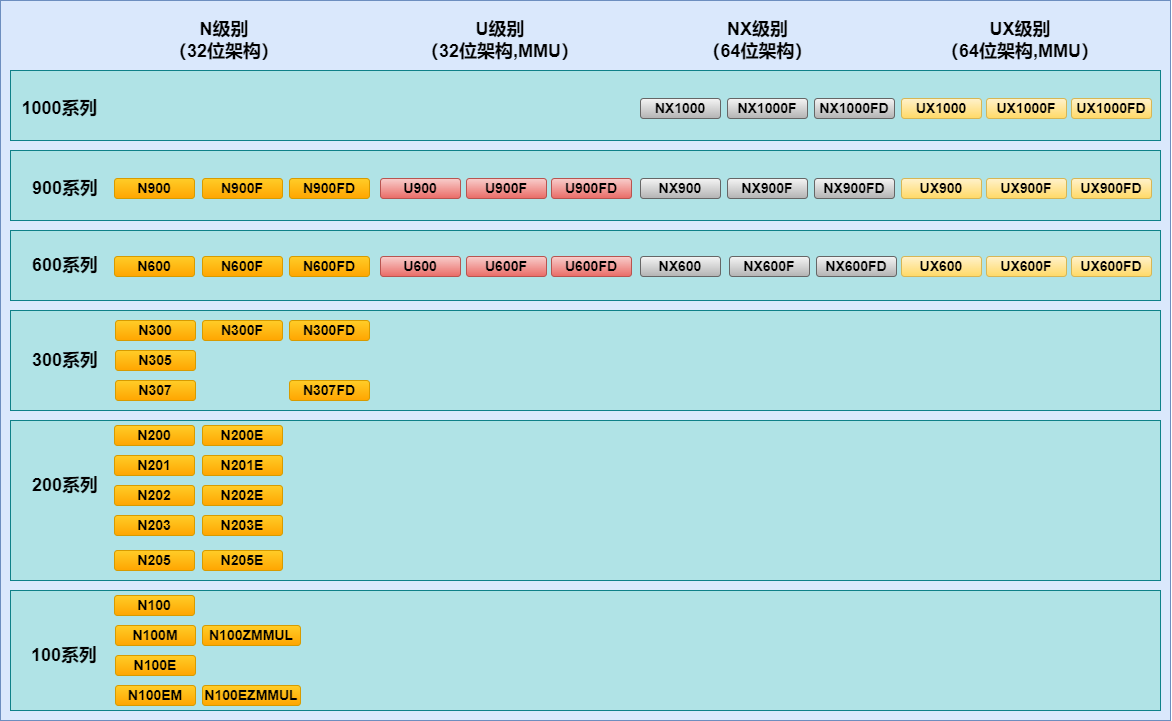
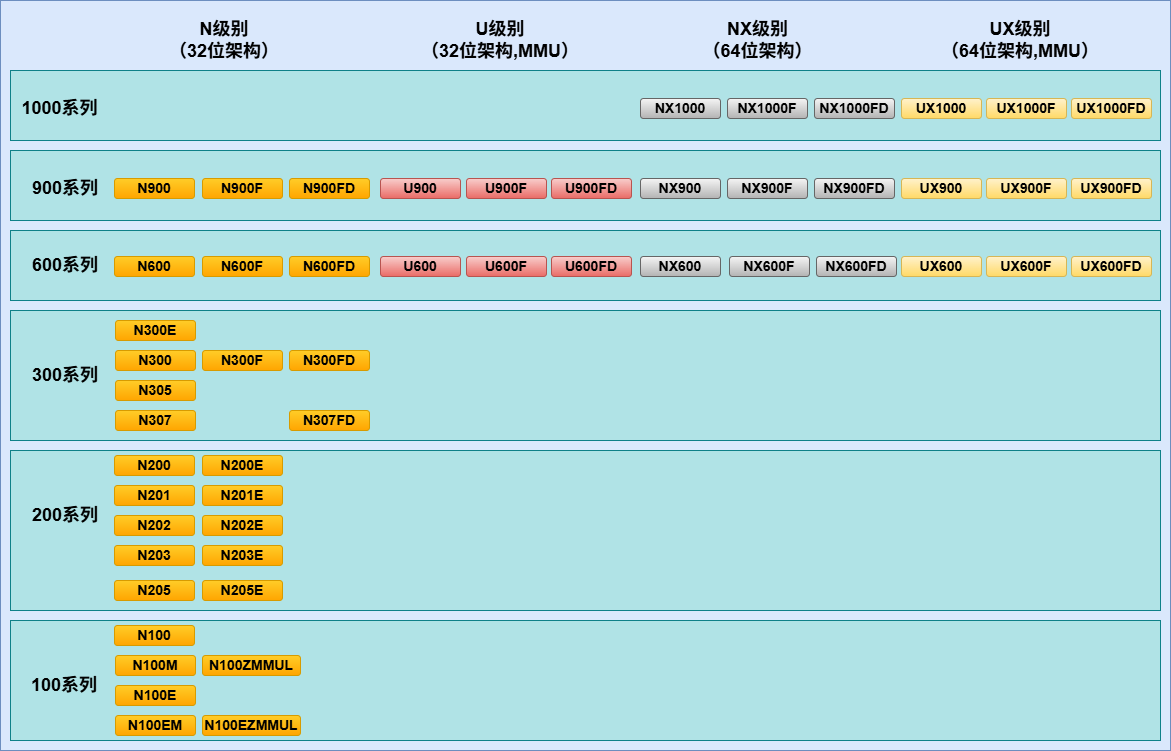
doc: update qemu doc for 2025.10 release

Changed region(s): [[0.0, 0.0, 1.0, 1.0]]

diff --git a/source/qemu/intro.rst b/source/qemu/intro.rst
@@ -15,6 +15,8 @@ Nuclei QEMU is now developed based on QEMU version 9.0, supporting the machine f
 
   - **Zilsd & Zclsd**: riscv-zilsd Release 1.0
 
+  - **Xxlfbf & Xxlvfbf**: Nuclei custom scalar & vector BF16 extensions
+
 If you want to access the code of Nuclei QEMU, you can visit our opensource `Nuclei QEMU Github Repository <https://github.com/riscv-mcu/qemu/tree/nuclei/9.0>`_.
 
 
@@ -210,9 +212,6 @@ TEST Support
 
   This is an exit mechanism implemented for **nuclei_evalsoc** in QEMU. By writing different values ``0x3333`` / ``0x5555`` to ``0x100000`` during program execution, qemu can automatically exit in **Fail/Pass** state. Writing ``0x7777`` will trigger system **reset**, initialize all devices, and run the program again.
 
-
-
-
 .. _Description_of_Parameters:
 
 Description of Parameters
@@ -225,7 +224,7 @@ You can enter ``qemu-system-riscv32 --help`` to view the parameters that can be 
 
 Nuclei QEMU supports two main programs: ``qemu-system-riscv32`` and ``qemu-system-riscv64``. ``qemu-system-riscv32`` is used to support 32-bit programs, while ``qemu-system-riscv64`` supports 64-bit programs.
 
-This is an example of a fully functional parameter for Nuclei QEMU: ``qemu-system-riscv32 -M nuclei_evalsoc,download=ddr,soc-cfg=evalsoc.json,debug=1 -cpu nuclei-n300fd,ext=_v_xxldsp,vlen=128,elen=64,s=true -m 512M -smp 1 -icount shift=0 -nodefaults -nographic -serial stdio -kernel dhrystone.elf``.
+This is an example of a fully functional parameter for Nuclei QEMU: ``qemu-system-riscv32 -M nuclei_evalsoc,download=ddr,aia=aplic-imsic,aia-guests=4,soc-cfg=evalsoc.json,debug=1 -cpu nuclei-n300fd,ext=_v_xxldsp,vlen=128,elen=64,s=true -m 512M -smp 1 -icount shift=0 -nodefaults -nographic -serial stdio -kernel dhrystone.elf``.
 
 Let's describe the meaning of this complete command:
 
@@ -234,6 +233,10 @@ Let's describe the meaning of this complete command:
   ``-M`` represents ``machine``, which means selecting the type of machine. Currently, Nuclei QEMU has added ``nuclei_evalsoc`` to the existing options. This option must exist.
 
   ``download=`` is used to choose the download mode, and currently, it supports four download modes: ``sram``, ``flashxip``, ``flash``, ``ilm``, and ``ddr``. If this parameter is not present, the default value is ``flashxip``.
+
+  ``aia=`` is used to set type of AIA interrupt controller. The valid values are ``none``, ``aplic`` and ``aplic-imsic``, corresponding to the interrupt controller enabled on evalsoc as ``PLIC``, ``APLIC`` and ``APLIC-IMSIC``.
+
+  ``aia-guests=`` will set number of guest MMIO pages for AIA-IMSIC. Valid value should be between 0 and 4.
 
   ``soc-cfg=`` is an optional option to pass dynamic modifications to the initial configuration of the machine with a json file. If this parameter is not set, the default value of qemu will be used.
 
@@ -314,6 +317,8 @@ Let's describe the meaning of this complete command:
   **irq**: peripheral interrupt id, dec format
 
   **download**: firmware startup address
+
+  **irqmax**: number of external interrupts supported by evalsoc, maximum can be set to 1024. In addition, it is necessary to ensure that both the custom irq number and the irq number of the peripheral devices supported by default in qemu are less than this.
 
   The following is a list of interrupt id for all interrupts implemented in qemu in both PLIC and ECLIC, users should follow this rule when configuring irq.
 
@@ -469,11 +474,13 @@ Let's describe the meaning of this complete command:
   +--------------+-------------------------------------------------------------------------+
   | zvfhmin      | RISC-V V-Extension                                                      |
   +--------------+-------------------------------------------------------------------------+
-  | zhinx        | Zhinx  Extension                                                        |
+  | zhinx        | Zhinx Extension                                                         |
   +--------------+-------------------------------------------------------------------------+
-  | zhinxmin     | Zhinxmin  Extension                                                     |
+  | zhinxmin     | Zhinxmin Extension                                                      |
   +--------------+-------------------------------------------------------------------------+
-  | smaia        | Smaia   Extension                                                       |
+  | smaia        | Smaia Extension                                                         |
+  +--------------+-------------------------------------------------------------------------+
+  | smcntrpmf    | Smcntrpmf Extension                                                     |
   +--------------+-------------------------------------------------------------------------+
   | ssaia        | Ssaia  Extension                                                        |
   +--------------+-------------------------------------------------------------------------+
@@ -502,7 +509,9 @@ Let's describe the meaning of this complete command:
   | xxlvqmacc    | Nuclei custom vpu extension                                             |
   +--------------+-------------------------------------------------------------------------+
 
-  **vlen=128,elen=64**: The VLEN and ELEN are only effective when the V extension instructions of RISC-V are enabled. The default value of VLEN is 128, and it must be a multiple of 2 when set, with a value range of [128, 1024]. The default value of ELEN is 64, and ELEN must also be a multiple of 2, with a value range of [8, 64].
+  **vlen=128**: The VLEN is only effective when the V extension instructions of RISC-V are enabled. The default value of VLEN is 128, and it must be a multiple of 2 when set, with a value range of [128, 1024]. The default value of ELEN is 64, and ELEN must also be a multiple of 2, with a value range of [8, 64].
+
+  **elen=64**: The ELEN is also only effective when the V extension instructions of RISC-V are enabled. When QEMU only enables Zve32* extension, ELEN will be set to 32; otherwise, the default ELEN is 64. If it is also configured through 'elen=', the actual ELEN value will be set based on this option.
 
   **s=true**: This parameter is optional, If you wish for RISC-V to support the S (supervisor) privilege mode, you can add s=true to the parameters to meet this requirement. Nuclei QEMU currently only supports interrupt handling in M-privilege mode.
 
@@ -595,7 +604,7 @@ Under normal circumstances, you should see the final output ``NMSIS_TEST_PASS``,
 +-----------------------+---------------+---------------+-----------------------------------------------+
 | demo_profiling/       | Y             |               |                                               |
 +-----------------------+---------------+---------------+-----------------------------------------------+
-| demo_smode_eclic/     | F             |               | Eclic does not yet support S mode.            |
+| demo_smode_eclic/     | Y             |               | XLCFG_TEE, eg:XLCFG_TEE=1 .                   |
 +-----------------------+---------------+---------------+-----------------------------------------------+
 | demo_smpu/            | F             |               | XLCFG_SMPU, eg:XLCFG_SMPU=1, SPMU has not yet |
 |                       |               |               | been implemented in qemu.                     |
@@ -669,6 +678,31 @@ This command sets up QEMU to emulate a Nuclei processor and environment specific
 Changelog
 =========
 
+.. _qemu_changelog_202510:
+
+Version 2025.10
+---------------
+
+- Iregion now can be accessed via 1-8bytes per ops
+- Adjust the configuration of ELEN
+- Support pausing Nuclei systimer
+- Support smode ECLIC
+- Add support for Nuclei xxlfbf & xxlvfbf extensions
+- Add optional AIA APLIC & IMSIC support on nuclei_evalsoc
+- Cherry-pick Smcntrpmf extension support
+- Add Nuclei N300e core support
+- Update to reflect the overflow flag of xxldsp instructions through 'ucode'
+- Implement some Nuclei custom csrs
+- Fixed some issues related to csr access
+- Adapt the SSTC extension on nuclei_evalsoc
+- Add zhinx/zhinxmin/zdinx imply rules
+- Fixed the support for single-letter input of the 'ext=' option
+- Increase the default size of the flash to 64MB
+- Fixed overflow caused by setting the 'mtimecmp' too large in clint timer
+- Trigger system reset rather than systimer reset when writing 'msftrst'
+- Fix a series of issues during interrupt handling in eclic
+
+
 .. _qemu_changelog_202502:
 
 Version 2025.02
@@ -688,7 +722,16 @@ Version 2025.02
 Known Issues
 ============
 
-LiteOS-M is not able to run on Nuclei Qemu
-------------------------------------------
+Fixed issues on Nuclei Qemu 2025.10
+-----------------------------------
 
-This issue still existed in 2025.02 version, see https://github.com/riscv-mcu/qemu/issues/6
+- LiteOS-M is not able to run on Nuclei Qemu, see https://github.com/riscv-mcu/qemu/issues/6
+
+Remaining issues on Nuclei Qemu 2025.10
+---------------------------------------
+
+- The plic/eclic interrupt controller cannot be automatically switched, see https://github.com/riscv-mcu/qemu/issues/8
+
+- Can not run SMP mode of FreeRTOS, RT-Thread, and Zephyr, see https://github.com/riscv-mcu/qemu/issues/9
+
+- Sstc is not yet fully compatible with Nuclei systimer, see https://github.com/riscv-mcu/qemu/issues/10
